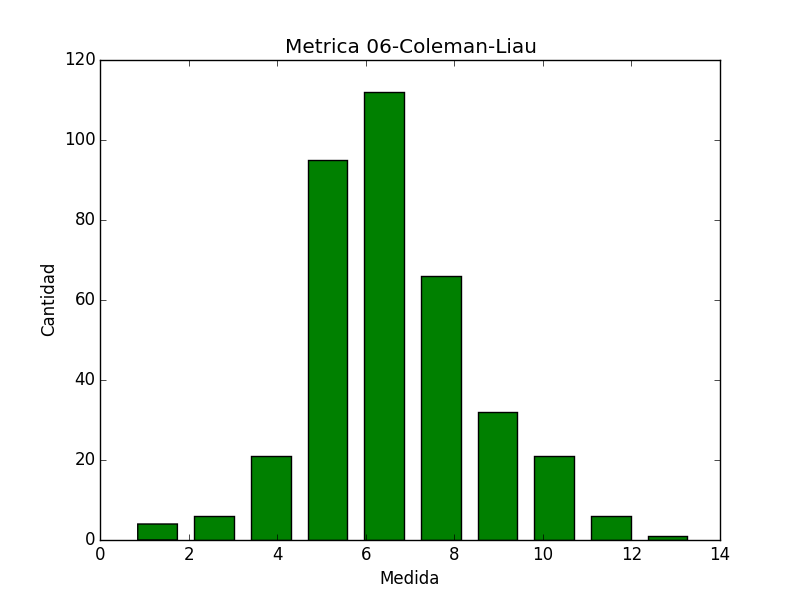
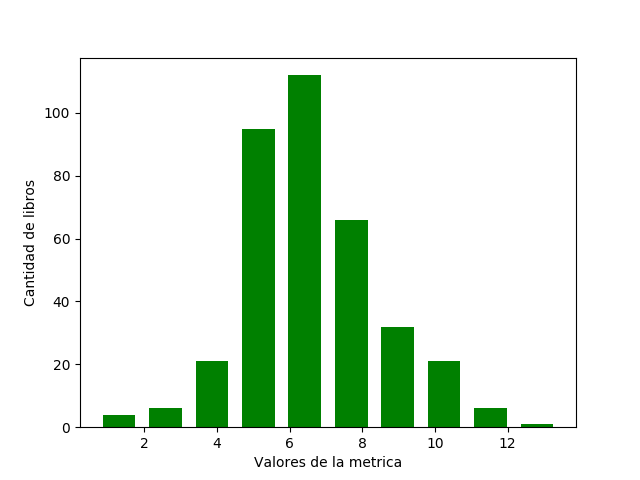
Cambia titulos de histogramas y labels

diff --git a/Trabajo Final/unigrams/scripts/allMetricsHistogramMaker.py b/Trabajo Final/unigrams/scripts/allMetricsHistogramMaker.py
@@ -1,4 +1,4 @@
-#!/usr/bin/env python
+#!/usr/bin/python
 import matplotlib.pyplot as plt
 import csv
 
@@ -17,9 +17,9 @@ for metric in metrics:
             value = float(data[metric])
             myData.append(value)
     plt.clf()
-    plt.xlabel("Medida")
-    plt.ylabel("Cantidad")
-    plt.title("Metrica " + labels[metric-starting])
+    plt.xlabel("Valores de la metrica")
+    plt.ylabel("Cantidad de libros")
+    # plt.title("Metrica " + labels[metric-starting])
     fig = plt.figure(1, figsize=(9, 6))
     # Create an axes instance
     ax = fig.add_subplot(111)
